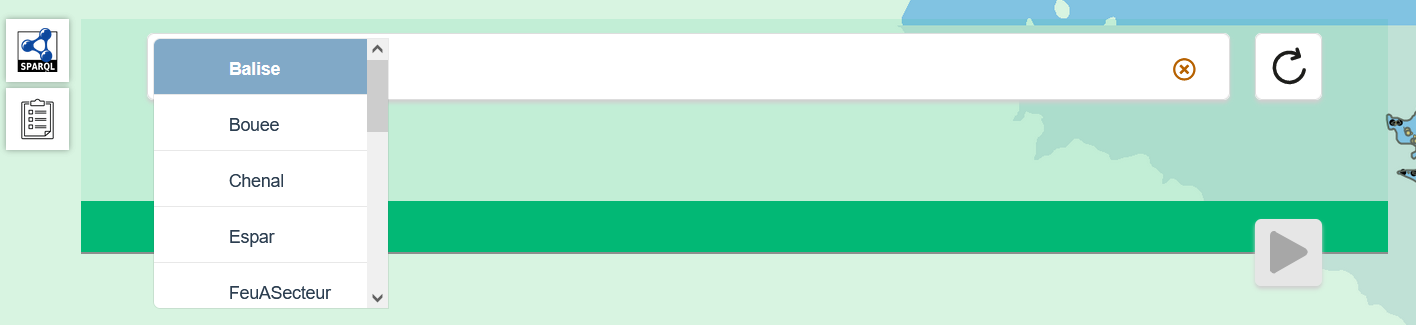
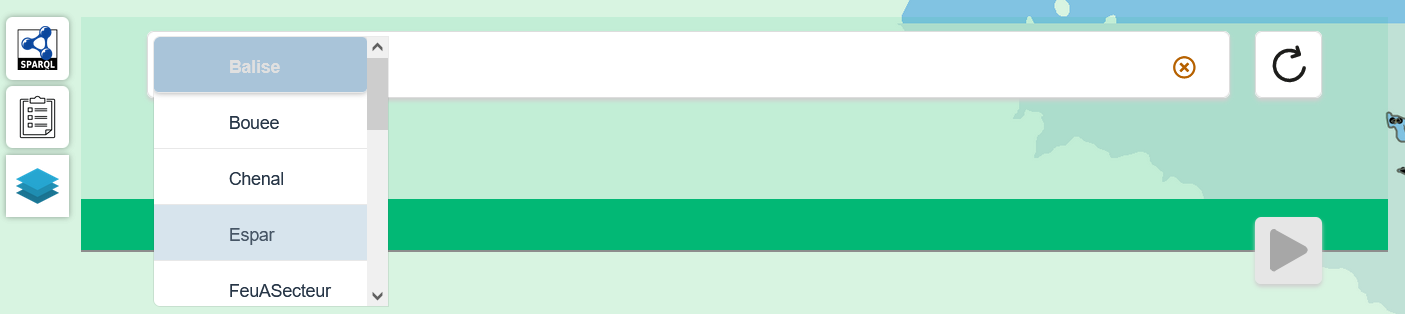
End doc

diff --git a/src/components/SwalDocumentation.vue b/src/components/SwalDocumentation.vue
@@ -68,8 +68,22 @@
 
     <div id=part3>
       <h5>3- Requêtes et affichage des résultats</h5>
+      <br>
+      <img src="../assets/doc/Sparnatural.png" style="height: 200px;">
+      <br><br>
+      <h6>&emsp;• Boutons et fonctionnalités</h6>
       <p>
-        Le bouton de gestion de couche, lorsqu'il est cliqué, permet de sélectionner les couches à afficher.<br>
+        Le bouton <img src="../assets/doc/Sparnatural_sparql_btn.png" style="height: 50px;"> permet d'afficher ou de masquer la zone de requête, et ainsi
+        avoir une meilleure vue sur la carte.
+      </p>
+      <p>
+        Le bouton <img src="../assets/doc/Sparnatural_result_btn.png" style="height: 50px;"> permet d'afficher le résultat des requêtes
+        effectuées au préalable.
+      </p>
+      <p>
+        Le bouton de gestion de couche, <img src="../assets/doc/Sparnatural_layers_btn.png" style="height: 50px;">
+        lorsqu'il est cliqué, permet de sélectionner les couches à afficher.<br>
+        On retrouve dans un premier temps des couches tirées du SHOM :<br>
         &emsp;- Hydrography : Carte de profondeur des fonds marins.<br>
         &emsp;- Soundings : <br>
         &emsp;- Dangers : Les différents dangers en mer.<br>
@@ -78,13 +92,21 @@
         &emsp;- Aids to navigation : Les bouées et les phares le long de la côte.<br>
         &emsp;- Metadata : Les métadonnées liées aux zones.<br><br>
       </p>
+      <h6>&emsp;• Exemple de requêtes</h6>
+      <p>
+        Explication sur la div Sparnatural et exemples de requêtes.
+      </p>
     </div>
 
     <div id=part4>
       <h5>4- Affichage des IN en pdf</h5>
       <p>
-        Lorem ipsum dolor sit amet. Et assumenda ipsa quo vitae iure et saepe corrupti et voluptatem enim. Et doloribus odio nam illo facilis in galisum natus est magnam ratione vel incidunt perspiciatis et sequi error. Non dolorum pariatur aut blanditiis laudantium non doloremque accusantium aut aperiam placeat hic odit maiores. Ut exercitationem delectus in quia accusamus non ipsa nulla 33 deleniti vero a facilis ratione id voluptatibus dolor. Rem voluptates dolores est dolore omnis sit autem aspernatur qui aliquam illum in voluptatem voluptatum. Qui facilis fuga aut facilis quisquam hic excepturi eius voluptatum reprehenderit est quidem modi eum repellat cumque et dolor rerum. Est fugit explicabo qui dolor optio ut nobis nihil eum quia facere et nihil molestiae ut exercitationem tenetur! Qui quis nobis est maxime suscipit cum rerum quasi ut repellendus consequatur aut officia incidunt est blanditiis voluptatibus non ratione culpa!
+        Enfin, on retrouve à droite de l'écran le bouton <img src="../assets/doc/Pdf.png" style="height: 50px;"> qui permet
+        d'accéder aux pdf des Instructions Nautiques du SHOM.<br>
+        Vous pouvez soit l'ouvrir pour lire l'intégralité des ouvrages, soit cliquer sur le résultat d'une requête 
+        pour accéder directement à la bonne page comme on peut le voir sur l'exemple ci-dessous:
       </p>
+      <img src="../assets/doc/Pdf_exemple.png" style="height: 450px;">
     </div>
 
   </div>
@@ -100,6 +122,10 @@
   h5{
     text-align: left;
     padding: 0px 20px;
+  }
+  h6{
+    text-align: left;
+    padding: 0px 10px;
   }
   p{
     text-align: left;
